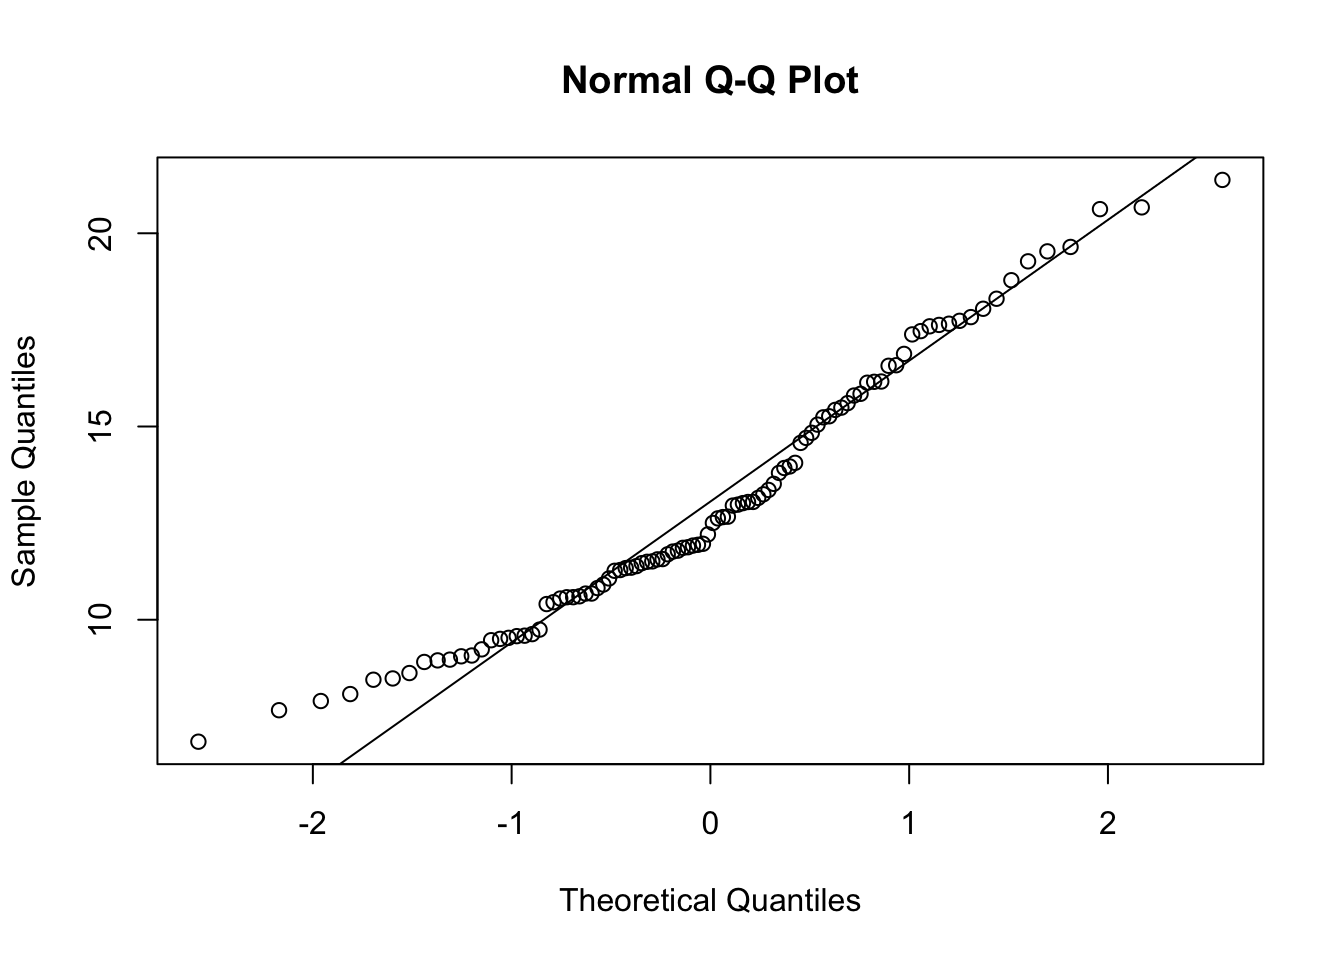
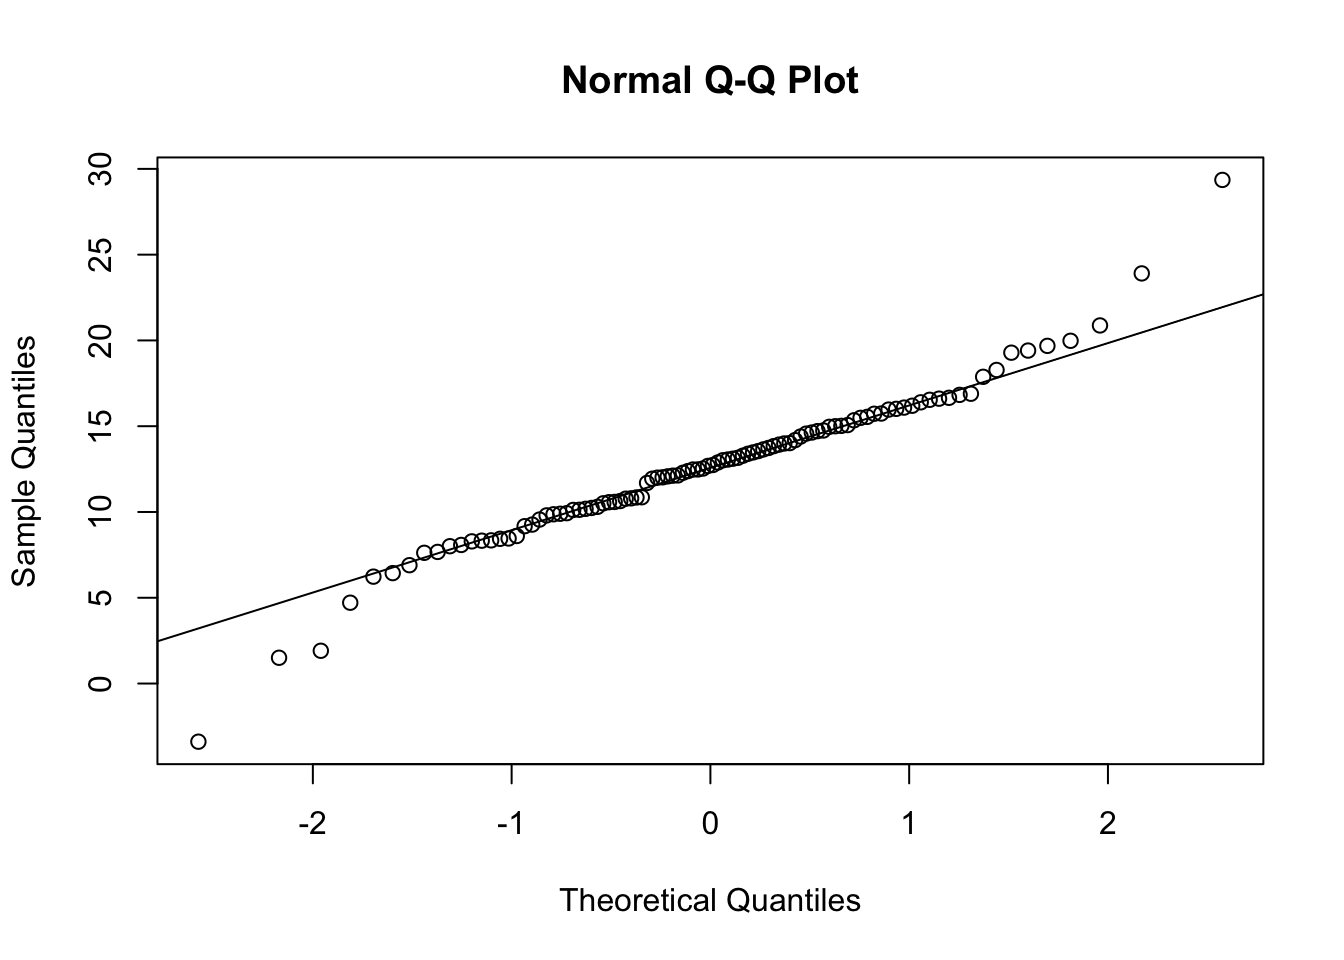
rebuild pages

diff --git a/RLabs/02_R_tutorial_Tabular_data.html b/RLabs/02_R_tutorial_Tabular_data.html
@@ -790,6 +790,16 @@ tidyverse. Before using the functions in these packages, we need to load
 tidyverse. We do this with the <code>library()</code> function. In the
 console, enter this:</p>
 <div class="sourceCode" id="cb1"><pre class="sourceCode r"><code class="sourceCode r"><span id="cb1-1"><a href="#cb1-1" tabindex="-1"></a><span class="fu">library</span>(tidyverse)</span></code></pre></div>
+<pre><code>## ── Attaching core tidyverse packages ──────────────────────── tidyverse 2.0.0 ──
+## ✔ dplyr     1.1.4     ✔ readr     2.1.5
+## ✔ forcats   1.0.0     ✔ stringr   1.5.1
+## ✔ ggplot2   3.5.2     ✔ tibble    3.3.0
+## ✔ lubridate 1.9.4     ✔ tidyr     1.3.1
+## ✔ purrr     1.1.0     
+## ── Conflicts ────────────────────────────────────────── tidyverse_conflicts() ──
+## ✖ dplyr::filter() masks stats::filter()
+## ✖ dplyr::lag()    masks stats::lag()
+## ℹ Use the conflicted package (&lt;http://conflicted.r-lib.org/&gt;) to force all conflicts to become errors</code></pre>
 <p>If the <code>tidyverse</code> was is installed on your computer
 correctly, the computer will show a brief status message and then will
 be ready to go. If the package is not installed, it will give you an
@@ -838,7 +848,7 @@ survived the accident or not.</p>
 <p>To import a CSV file into R, use the <code>read.csv()</code> function
 as in the following command. (This assumes that you have set the working
 directory to <code>ABDLabs</code>, as we described above.)</p>
-<div class="sourceCode" id="cb2"><pre class="sourceCode r"><code class="sourceCode r"><span id="cb2-1"><a href="#cb2-1" tabindex="-1"></a>titanicData <span class="ot">&lt;-</span> <span class="fu">read.csv</span>(<span class="st">&quot;DataForLabs/titanic.csv&quot;</span>, <span class="at">stringsAsFactors =</span> <span class="cn">TRUE</span>)</span></code></pre></div>
+<div class="sourceCode" id="cb3"><pre class="sourceCode r"><code class="sourceCode r"><span id="cb3-1"><a href="#cb3-1" tabindex="-1"></a>titanicData <span class="ot">&lt;-</span> <span class="fu">read.csv</span>(<span class="st">&quot;DataForLabs/titanic.csv&quot;</span>, <span class="at">stringsAsFactors =</span> <span class="cn">TRUE</span>)</span></code></pre></div>
 <p>This looks for the file called <code>titanic.csv</code> in the folder
 called <code>DataForLabs.</code> Here we have given the name
 <code>titanicData</code> to the object in R that contains all this
@@ -869,7 +879,7 @@ tells the computer where to look for the file.</p>
 <code>read.csv()</code> to look for the file outside your current
 working directory. Reading a file from any location can be done with
 <code>read.csv()</code> like this:</p>
-<div class="sourceCode" id="cb3"><pre class="sourceCode r"><code class="sourceCode r"><span id="cb3-1"><a href="#cb3-1" tabindex="-1"></a>titanicData <span class="ot">&lt;-</span> <span class="fu">read.csv</span>(<span class="st">&quot;/Users/whitlock/Desktop/ABDLabs/DataForLabs/titanic.csv&quot;</span>, <span class="at">stringsAsFactors =</span> <span class="cn">TRUE</span>)</span></code></pre></div>
+<div class="sourceCode" id="cb4"><pre class="sourceCode r"><code class="sourceCode r"><span id="cb4-1"><a href="#cb4-1" tabindex="-1"></a>titanicData <span class="ot">&lt;-</span> <span class="fu">read.csv</span>(<span class="st">&quot;/Users/whitlock/Desktop/ABDLabs/DataForLabs/titanic.csv&quot;</span>, <span class="at">stringsAsFactors =</span> <span class="cn">TRUE</span>)</span></code></pre></div>
 <p><br></p>
 </div>
 </div>
@@ -882,30 +892,30 @@ the characteristics of the data, the <code>summary()</code> and
 <h3><code>summary()</code></h3>
 <p>This function will list all the variables and some summary statistics
 for each variable.</p>
-<div class="sourceCode" id="cb4"><pre class="sourceCode r"><code class="sourceCode r"><span id="cb4-1"><a href="#cb4-1" tabindex="-1"></a><span class="fu">summary</span>(titanicData)</span></code></pre></div>
-<pre><code>##  passenger_class                        name           age                 embarked  
-##  1st:322         Carlsson,MrFransOlof     :   2   Min.   : 0.1667              :493  
-##  2nd:280         Connolly,MissKate        :   2   1st Qu.:21.0000   Cherbourg  :202  
-##  3rd:711         Kelly,MrJames            :   2   Median :30.0000   Queenstown : 45  
-##                  Abbing,MrAnthony         :   1   Mean   :31.1942   Southampton:573  
-##                  Abbott,MasterEugeneJoseph:   1   3rd Qu.:41.0000                    
-##                  Abbott,MrRossmoreEdward  :   1   Max.   :71.0000                    
-##                  (Other)                  :1304   NA&#39;s   :680                        
-##           home_destination     sex      survive  
-##                   :558     female:463   no :864  
-##  NewYork,NY       : 65     male  :850   yes:449  
-##  London           : 14                           
-##  Montreal,PQ      : 10                           
-##  Cornwall/Akron,OH:  9                           
-##  Paris,France     :  9                           
-##  (Other)          :648</code></pre>
+<div class="sourceCode" id="cb5"><pre class="sourceCode r"><code class="sourceCode r"><span id="cb5-1"><a href="#cb5-1" tabindex="-1"></a><span class="fu">summary</span>(titanicData)</span></code></pre></div>
+<pre><code>##  passenger_class                        name           age         
+##  1st:322         Carlsson,MrFransOlof     :   2   Min.   : 0.1667  
+##  2nd:280         Connolly,MissKate        :   2   1st Qu.:21.0000  
+##  3rd:711         Kelly,MrJames            :   2   Median :30.0000  
+##                  Abbing,MrAnthony         :   1   Mean   :31.1942  
+##                  Abbott,MasterEugeneJoseph:   1   3rd Qu.:41.0000  
+##                  Abbott,MrRossmoreEdward  :   1   Max.   :71.0000  
+##                  (Other)                  :1304   NA&#39;s   :680      
+##         embarked            home_destination     sex      survive  
+##             :493                    :558     female:463   no :864  
+##  Cherbourg  :202   NewYork,NY       : 65     male  :850   yes:449  
+##  Queenstown : 45   London           : 14                           
+##  Southampton:573   Montreal,PQ      : 10                           
+##                    Cornwall/Akron,OH:  9                           
+##                    Paris,France     :  9                           
+##                    (Other)          :648</code></pre>
 </div>
 <div id="view" class="section level3">
 <h3><code>View()</code></h3>
 <p>The <code>View()</code> function is a nice way to see the data in a
 spreadsheet-like format. To see the data in <code>titanicData</code>
 with <code>View()</code>, run the following command:</p>
-<div class="sourceCode" id="cb6"><pre class="sourceCode r"><code class="sourceCode r"><span id="cb6-1"><a href="#cb6-1" tabindex="-1"></a><span class="fu">View</span>(titanicData)</span></code></pre></div>
+<div class="sourceCode" id="cb7"><pre class="sourceCode r"><code class="sourceCode r"><span id="cb7-1"><a href="#cb7-1" tabindex="-1"></a><span class="fu">View</span>(titanicData)</span></code></pre></div>
 <p><img src="formula_summaries/VIew_function_titanicData.png"
 width="700" /></p>
 <p>Again, note that the <code>titanicData</code> object has 7 columns
@@ -942,7 +952,7 @@ by itself. We write the name of the data set, followed by a
 <code>$</code>, and then the name of the variable.</p>
 <p>For example, to show a list of the age of all the passengers on the
 Titanic, use</p>
-<div class="sourceCode" id="cb7"><pre class="sourceCode r"><code class="sourceCode r"><span id="cb7-1"><a href="#cb7-1" tabindex="-1"></a>titanicData<span class="sc">$</span>age</span></code></pre></div>
+<div class="sourceCode" id="cb8"><pre class="sourceCode r"><code class="sourceCode r"><span id="cb8-1"><a href="#cb8-1" tabindex="-1"></a>titanicData<span class="sc">$</span>age</span></code></pre></div>
 <p>This will show a vector that has all the values for this variable
 age, one for each individual in the data set.</p>
 <p><br></p>
@@ -955,24 +965,24 @@ easiest way to do this is to simply assign a new vector to a new column
 name, using the <code>$</code>.</p>
 <p>For example, to add the log of age as a column in the
 <code>titanicData</code> data frame, we can write</p>
-<div class="sourceCode" id="cb8"><pre class="sourceCode r"><code class="sourceCode r"><span id="cb8-1"><a href="#cb8-1" tabindex="-1"></a>titanicData<span class="sc">$</span>log_age <span class="ot">&lt;-</span> <span class="fu">log</span>(titanicData<span class="sc">$</span>age)</span></code></pre></div>
+<div class="sourceCode" id="cb9"><pre class="sourceCode r"><code class="sourceCode r"><span id="cb9-1"><a href="#cb9-1" tabindex="-1"></a>titanicData<span class="sc">$</span>log_age <span class="ot">&lt;-</span> <span class="fu">log</span>(titanicData<span class="sc">$</span>age)</span></code></pre></div>
 <p>You can run the command <code>head(titanicData)</code> to see that
 <code>log_age</code> is now a column in <code>titanicData</code>.</p>
-<div class="sourceCode" id="cb9"><pre class="sourceCode r"><code class="sourceCode r"><span id="cb9-1"><a href="#cb9-1" tabindex="-1"></a><span class="fu">head</span>(titanicData)</span></code></pre></div>
-<pre><code>##   passenger_class                                      name     age    embarked            home_destination
-## 1             1st                 Allen,MissElisabethWalton 29.0000 Southampton                  StLouis,MO
-## 2             1st                  Allison,MissHelenLoraine  2.0000 Southampton Montreal,PQ/Chesterville,ON
-## 3             1st           Allison,MrHudsonJoshuaCreighton 30.0000 Southampton Montreal,PQ/Chesterville,ON
-## 4             1st Allison,MrsHudsonJ.C.(BessieWaldoDaniels) 25.0000 Southampton Montreal,PQ/Chesterville,ON
-## 5             1st                Allison,MasterHudsonTrevor  0.9167 Southampton Montreal,PQ/Chesterville,ON
-## 6             1st                          Anderson,MrHarry 47.0000 Southampton                  NewYork,NY
-##      sex survive     log_age
-## 1 female     yes  3.36729583
-## 2 female      no  0.69314718
-## 3   male      no  3.40119738
-## 4 female      no  3.21887582
-## 5   male     yes -0.08697501
-## 6   male     yes  3.85014760</code></pre>
+<div class="sourceCode" id="cb10"><pre class="sourceCode r"><code class="sourceCode r"><span id="cb10-1"><a href="#cb10-1" tabindex="-1"></a><span class="fu">head</span>(titanicData)</span></code></pre></div>
+<pre><code>##   passenger_class                                      name     age    embarked
+## 1             1st                 Allen,MissElisabethWalton 29.0000 Southampton
+## 2             1st                  Allison,MissHelenLoraine  2.0000 Southampton
+## 3             1st           Allison,MrHudsonJoshuaCreighton 30.0000 Southampton
+## 4             1st Allison,MrsHudsonJ.C.(BessieWaldoDaniels) 25.0000 Southampton
+## 5             1st                Allison,MasterHudsonTrevor  0.9167 Southampton
+## 6             1st                          Anderson,MrHarry 47.0000 Southampton
+##              home_destination    sex survive     log_age
+## 1                  StLouis,MO female     yes  3.36729583
+## 2 Montreal,PQ/Chesterville,ON female      no  0.69314718
+## 3 Montreal,PQ/Chesterville,ON   male      no  3.40119738
+## 4 Montreal,PQ/Chesterville,ON female      no  3.21887582
+## 5 Montreal,PQ/Chesterville,ON   male     yes -0.08697501
+## 6                  NewYork,NY   male     yes  3.85014760</code></pre>
 <p>The <code>head()</code> function shows the first 6 rows of a data
 frame or tibble, which is a handy way to check that you understand the
 structure of the data and/or that you have added the new column
@@ -995,7 +1005,7 @@ functions in the tidyverse packages, including
 and an individual is female if that variable has value
 <code>female</code>. We can create a new data frame that includes only
 the data from females with the following command:</p>
-<div class="sourceCode" id="cb11"><pre class="sourceCode r"><code class="sourceCode r"><span id="cb11-1"><a href="#cb11-1" tabindex="-1"></a>titanicDataFemalesOnly <span class="ot">&lt;-</span> <span class="fu">filter</span>(titanicData, sex <span class="sc">==</span> <span class="st">&quot;female&quot;</span>)</span></code></pre></div>
+<div class="sourceCode" id="cb12"><pre class="sourceCode r"><code class="sourceCode r"><span id="cb12-1"><a href="#cb12-1" tabindex="-1"></a>titanicDataFemalesOnly <span class="ot">&lt;-</span> <span class="fu">filter</span>(titanicData, sex <span class="sc">==</span> <span class="st">&quot;female&quot;</span>)</span></code></pre></div>
 <p>This new data frame will include all the same columns as the original
 <code>titanicData</code>, but it will only include the rows for which
 the sex was <code>female</code>.</p>

diff --git a/RLabs/R_tutorial_Comparing_means_of_2_groups.html b/RLabs/R_tutorial_Comparing_means_of_2_groups.html
@@ -616,19 +616,10 @@ href="R_tutorial_Intro_to_R_2.html#expanding_r%E2%80%99s_capabilities">install
 the package</a>.)</p>
 <div class="sourceCode" id="cb2"><pre class="sourceCode r"><code class="sourceCode r"><span id="cb2-1"><a href="#cb2-1" tabindex="-1"></a><span class="fu">library</span>(ggplot2)</span>
 <span id="cb2-2"><a href="#cb2-2" tabindex="-1"></a><span class="fu">library</span>(car)</span></code></pre></div>
-<pre><code>## Loading required package: carData</code></pre>
-<pre><code>## 
-## Attaching package: &#39;car&#39;</code></pre>
-<pre><code>## The following object is masked from &#39;package:dplyr&#39;:
-## 
-##     recode</code></pre>
-<pre><code>## The following object is masked from &#39;package:purrr&#39;:
-## 
-##     some</code></pre>
 <p><br></p>
 <p>We’ll use the Titanic data set again this week for our examples, so
 load those data to R.</p>
-<div class="sourceCode" id="cb7"><pre class="sourceCode r"><code class="sourceCode r"><span id="cb7-1"><a href="#cb7-1" tabindex="-1"></a>titanicData <span class="ot">&lt;-</span> <span class="fu">read.csv</span>(<span class="st">&quot;DataForLabs/titanic.csv&quot;</span>,<span class="at">stringsAsFactors =</span> <span class="cn">TRUE</span>)</span></code></pre></div>
+<div class="sourceCode" id="cb3"><pre class="sourceCode r"><code class="sourceCode r"><span id="cb3-1"><a href="#cb3-1" tabindex="-1"></a>titanicData <span class="ot">&lt;-</span> <span class="fu">read.csv</span>(<span class="st">&quot;DataForLabs/titanic.csv&quot;</span>,<span class="at">stringsAsFactors =</span> <span class="cn">TRUE</span>)</span></code></pre></div>
 <p><br></p>
 <div id="strip-charts" class="section level2">
 <h2>Strip charts</h2>
@@ -649,7 +640,7 @@ we specify <strong>x = survive</strong> to indicate the categorical
 variable. If we want more or less jitter, we could use a larger or
 smaller value than 0.05 in the option
 <strong>position_jitter(0.05)</strong>.</p>
-<div class="sourceCode" id="cb8"><pre class="sourceCode r"><code class="sourceCode r"><span id="cb8-1"><a href="#cb8-1" tabindex="-1"></a><span class="fu">ggplot</span>(titanicData, <span class="fu">aes</span>(<span class="at">x =</span> survive, <span class="at">y =</span> age)) <span class="sc">+</span> <span class="fu">geom_jitter</span>(<span class="at">position =</span> <span class="fu">position_jitter</span>(<span class="fl">0.05</span>)) <span class="sc">+</span> <span class="fu">theme_minimal</span>()</span></code></pre></div>
+<div class="sourceCode" id="cb4"><pre class="sourceCode r"><code class="sourceCode r"><span id="cb4-1"><a href="#cb4-1" tabindex="-1"></a><span class="fu">ggplot</span>(titanicData, <span class="fu">aes</span>(<span class="at">x =</span> survive, <span class="at">y =</span> age)) <span class="sc">+</span> <span class="fu">geom_jitter</span>(<span class="at">position =</span> <span class="fu">position_jitter</span>(<span class="fl">0.05</span>)) <span class="sc">+</span> <span class="fu">theme_minimal</span>()</span></code></pre></div>
 <p><img src="R_tutorial_Comparing_means_of_2_groups_files/figure-html/unnamed-chunk-4-1.png" width="672" /></p>
 <p>One can see from this strip chart that there is a weak tendency for
 survivors to be younger on average than non-survivors. Younger people
@@ -667,9 +658,9 @@ variable in the different groups, and it helps to assess whether the
 assumptions of relevant statistical methods are met.</p>
 <p>Plotting <strong>age</strong> again as a function of
 <strong>survive</strong>, we can write:</p>
-<div class="sourceCode" id="cb9"><pre class="sourceCode r"><code class="sourceCode r"><span id="cb9-1"><a href="#cb9-1" tabindex="-1"></a><span class="fu">ggplot</span>(titanicData, <span class="fu">aes</span>(<span class="at">x =</span> age)) <span class="sc">+</span>   </span>
-<span id="cb9-2"><a href="#cb9-2" tabindex="-1"></a>    <span class="fu">geom_histogram</span>() <span class="sc">+</span> </span>
-<span id="cb9-3"><a href="#cb9-3" tabindex="-1"></a>    <span class="fu">facet_wrap</span>(<span class="sc">~</span> survive, <span class="at">ncol =</span> <span class="dv">1</span>)</span></code></pre></div>
+<div class="sourceCode" id="cb5"><pre class="sourceCode r"><code class="sourceCode r"><span id="cb5-1"><a href="#cb5-1" tabindex="-1"></a><span class="fu">ggplot</span>(titanicData, <span class="fu">aes</span>(<span class="at">x =</span> age)) <span class="sc">+</span>   </span>
+<span id="cb5-2"><a href="#cb5-2" tabindex="-1"></a>    <span class="fu">geom_histogram</span>() <span class="sc">+</span> </span>
+<span id="cb5-3"><a href="#cb5-3" tabindex="-1"></a>    <span class="fu">facet_wrap</span>(<span class="sc">~</span> survive, <span class="at">ncol =</span> <span class="dv">1</span>)</span></code></pre></div>
 <pre><code>## `stat_bin()` using `bins = 30`. Pick better value with `binwidth`.</code></pre>
 <pre><code>## Warning: Removed 680 rows containing non-finite outside the scale range (`stat_bin()`).</code></pre>
 <p><img src="R_tutorial_Comparing_means_of_2_groups_files/figure-html/unnamed-chunk-5-1.png" width="672" /></p>
@@ -693,13 +684,13 @@ survived.</p>
 variable and a numerical variable is a violin plot.</p>
 <p>A violin plot can be made in R using <strong>ggplot</strong>, using
 the geom function <strong>geom_violin()</strong>.</p>
-<div class="sourceCode" id="cb12"><pre class="sourceCode r"><code class="sourceCode r"><span id="cb12-1"><a href="#cb12-1" tabindex="-1"></a><span class="fu">ggplot</span>(titanicData, <span class="fu">aes</span>(<span class="at">x=</span>survive, <span class="at">y=</span>age, <span class="at">fill =</span> survive)) <span class="sc">+</span> </span>
-<span id="cb12-2"><a href="#cb12-2" tabindex="-1"></a>  <span class="fu">geom_violin</span>() <span class="sc">+</span></span>
-<span id="cb12-3"><a href="#cb12-3" tabindex="-1"></a>  <span class="fu">xlab</span>(<span class="st">&quot;Survival&quot;</span>) <span class="sc">+</span> <span class="fu">ylab</span>(<span class="st">&quot;Age&quot;</span>) <span class="sc">+</span> </span>
-<span id="cb12-4"><a href="#cb12-4" tabindex="-1"></a>  <span class="fu">theme_classic</span>()<span class="sc">+</span><span class="fu">scale_fill_manual</span>(<span class="at">values=</span><span class="fu">c</span>(<span class="st">&quot;#FFB531&quot;</span>,<span class="st">&quot;#BC211A&quot;</span>))<span class="sc">+</span> </span>
-<span id="cb12-5"><a href="#cb12-5" tabindex="-1"></a>  <span class="fu">stat_summary</span>(<span class="at">fun.y=</span>mean,  <span class="at">geom=</span><span class="st">&quot;point&quot;</span>, <span class="at">color=</span><span class="st">&quot;black&quot;</span>)<span class="sc">+</span> </span>
-<span id="cb12-6"><a href="#cb12-6" tabindex="-1"></a>  <span class="fu">theme</span>(<span class="at">legend.position=</span><span class="st">&quot;none&quot;</span>)<span class="sc">+</span> </span>
-<span id="cb12-7"><a href="#cb12-7" tabindex="-1"></a>  <span class="fu">theme</span>(<span class="at">aspect.ratio=</span><span class="dv">1</span>)</span></code></pre></div>
+<div class="sourceCode" id="cb8"><pre class="sourceCode r"><code class="sourceCode r"><span id="cb8-1"><a href="#cb8-1" tabindex="-1"></a><span class="fu">ggplot</span>(titanicData, <span class="fu">aes</span>(<span class="at">x=</span>survive, <span class="at">y=</span>age, <span class="at">fill =</span> survive)) <span class="sc">+</span> </span>
+<span id="cb8-2"><a href="#cb8-2" tabindex="-1"></a>  <span class="fu">geom_violin</span>() <span class="sc">+</span></span>
+<span id="cb8-3"><a href="#cb8-3" tabindex="-1"></a>  <span class="fu">xlab</span>(<span class="st">&quot;Survival&quot;</span>) <span class="sc">+</span> <span class="fu">ylab</span>(<span class="st">&quot;Age&quot;</span>) <span class="sc">+</span> </span>
+<span id="cb8-4"><a href="#cb8-4" tabindex="-1"></a>  <span class="fu">theme_classic</span>()<span class="sc">+</span><span class="fu">scale_fill_manual</span>(<span class="at">values=</span><span class="fu">c</span>(<span class="st">&quot;#FFB531&quot;</span>,<span class="st">&quot;#BC211A&quot;</span>))<span class="sc">+</span> </span>
+<span id="cb8-5"><a href="#cb8-5" tabindex="-1"></a>  <span class="fu">stat_summary</span>(<span class="at">fun.y=</span>mean,  <span class="at">geom=</span><span class="st">&quot;point&quot;</span>, <span class="at">color=</span><span class="st">&quot;black&quot;</span>)<span class="sc">+</span> </span>
+<span id="cb8-6"><a href="#cb8-6" tabindex="-1"></a>  <span class="fu">theme</span>(<span class="at">legend.position=</span><span class="st">&quot;none&quot;</span>)<span class="sc">+</span> </span>
+<span id="cb8-7"><a href="#cb8-7" tabindex="-1"></a>  <span class="fu">theme</span>(<span class="at">aspect.ratio=</span><span class="dv">1</span>)</span></code></pre></div>
 <p><img src="R_tutorial_Comparing_means_of_2_groups_files/figure-html/unnamed-chunk-6-1.png" width="672" /></p>
 <p>This version has some extra options thrown in. What is important here
 is that it uses <strong>geom_violin()</strong> to specify that a violin
@@ -747,7 +738,7 @@ which allows for unequal variances.)</p>
 To tell R to assume that the variances are equal, we use the option
 “<strong>var.equal = TRUE</strong>”.</p>
 <p>Here is the complete command for this example and the output:</p>
-<div class="sourceCode" id="cb13"><pre class="sourceCode r"><code class="sourceCode r"><span id="cb13-1"><a href="#cb13-1" tabindex="-1"></a><span class="fu">t.test</span>(age <span class="sc">~</span> survive, <span class="at">data =</span> titanicData, <span class="at">var.equal =</span> <span class="cn">TRUE</span>)</span></code></pre></div>
+<div class="sourceCode" id="cb9"><pre class="sourceCode r"><code class="sourceCode r"><span id="cb9-1"><a href="#cb9-1" tabindex="-1"></a><span class="fu">t.test</span>(age <span class="sc">~</span> survive, <span class="at">data =</span> titanicData, <span class="at">var.equal =</span> <span class="cn">TRUE</span>)</span></code></pre></div>
 <pre><code>## 
 ##  Two Sample t-test
 ## 
@@ -790,7 +781,7 @@ variable has a normal distribution in both populations.)</p>
 function <strong>t.test()</strong>. The command is exactly like that for
 the 2-sample <em>t</em>-test that we did above, but with the option
 <strong>var.equal</strong> set to <strong>FALSE</strong>.</p>
-<div class="sourceCode" id="cb15"><pre class="sourceCode r"><code class="sourceCode r"><span id="cb15-1"><a href="#cb15-1" tabindex="-1"></a><span class="fu">t.test</span>(age <span class="sc">~</span> survive, <span class="at">data =</span> titanicData, <span class="at">var.equal =</span> <span class="cn">FALSE</span>)</span></code></pre></div>
+<div class="sourceCode" id="cb11"><pre class="sourceCode r"><code class="sourceCode r"><span id="cb11-1"><a href="#cb11-1" tabindex="-1"></a><span class="fu">t.test</span>(age <span class="sc">~</span> survive, <span class="at">data =</span> titanicData, <span class="at">var.equal =</span> <span class="cn">FALSE</span>)</span></code></pre></div>
 <pre><code>## 
 ##  Welch Two Sample t-test
 ## 
@@ -824,7 +815,7 @@ other group.</p>
 <p>The Titanic data set does not include any paired data, so we will use
 Example 12.2 from Whitlock and Schluter to show how this function works
 in R. Load the data with <strong>read.csv()</strong>.</p>
-<div class="sourceCode" id="cb17"><pre class="sourceCode r"><code class="sourceCode r"><span id="cb17-1"><a href="#cb17-1" tabindex="-1"></a>blackbird <span class="ot">&lt;-</span> <span class="fu">read.csv</span>(<span class="st">&quot;DataForLabs/chap12e2BlackbirdTestosterone.csv&quot;</span>, <span class="at">stringsAsFactors =</span> <span class="cn">TRUE</span>)</span></code></pre></div>
+<div class="sourceCode" id="cb13"><pre class="sourceCode r"><code class="sourceCode r"><span id="cb13-1"><a href="#cb13-1" tabindex="-1"></a>blackbird <span class="ot">&lt;-</span> <span class="fu">read.csv</span>(<span class="st">&quot;DataForLabs/chap12e2BlackbirdTestosterone.csv&quot;</span>, <span class="at">stringsAsFactors =</span> <span class="cn">TRUE</span>)</span></code></pre></div>
 <p>These data show the log antibody production of male blackbirds before
 (<strong>logBeforeImplant</strong>) and after
 (<strong>logAfterImplant</strong>) the birds received a testosterone
@@ -834,7 +825,7 @@ are paired.</p>
 <strong>t.test()</strong> by specifying the option <strong>paired =
 TRUE</strong>. We also need to give the names of the two columns that
 have the data from the two conditions.</p>
-<div class="sourceCode" id="cb18"><pre class="sourceCode r"><code class="sourceCode r"><span id="cb18-1"><a href="#cb18-1" tabindex="-1"></a><span class="fu">t.test</span>(blackbird<span class="sc">$</span>logAfterImplant, blackbird<span class="sc">$</span>logBeforeImplant, <span class="at">paired =</span> <span class="cn">TRUE</span>)</span></code></pre></div>
+<div class="sourceCode" id="cb14"><pre class="sourceCode r"><code class="sourceCode r"><span id="cb14-1"><a href="#cb14-1" tabindex="-1"></a><span class="fu">t.test</span>(blackbird<span class="sc">$</span>logAfterImplant, blackbird<span class="sc">$</span>logBeforeImplant, <span class="at">paired =</span> <span class="cn">TRUE</span>)</span></code></pre></div>
 <pre><code>## 
 ##  Paired t-test
 ## 
@@ -868,7 +859,7 @@ of R does not do Levene’s test, but it is available from the package
 <p>As with other packages you would need to install the package car
 first (see Lab 2 for instructions), and then use library to load its
 functions into R.</p>
-<div class="sourceCode" id="cb20"><pre class="sourceCode r"><code class="sourceCode r"><span id="cb20-1"><a href="#cb20-1" tabindex="-1"></a><span class="fu">library</span>(car)</span></code></pre></div>
+<div class="sourceCode" id="cb16"><pre class="sourceCode r"><code class="sourceCode r"><span id="cb16-1"><a href="#cb16-1" tabindex="-1"></a><span class="fu">library</span>(car)</span></code></pre></div>
 <p>To use <strong>leveneTest()</strong>, you need three arguments for
 the input.</p>
 <p><strong>data</strong>: the data frame that contains the data</p>
@@ -878,7 +869,7 @@ variable and the explanatory variables</p>
 For the standard Levene’s test, use <strong>center = mean</strong></p>
 <p>Let’s demonstrate this with the Titanic data, with age as the
 numerical variable and survive as the group variable.</p>
-<div class="sourceCode" id="cb21"><pre class="sourceCode r"><code class="sourceCode r"><span id="cb21-1"><a href="#cb21-1" tabindex="-1"></a><span class="fu">leveneTest</span>(<span class="at">data =</span> titanicData, age <span class="sc">~</span> survive, <span class="at">center =</span> mean)</span></code></pre></div>
+<div class="sourceCode" id="cb17"><pre class="sourceCode r"><code class="sourceCode r"><span id="cb17-1"><a href="#cb17-1" tabindex="-1"></a><span class="fu">leveneTest</span>(<span class="at">data =</span> titanicData, age <span class="sc">~</span> survive, <span class="at">center =</span> mean)</span></code></pre></div>
 <pre><code>## Levene&#39;s Test for Homogeneity of Variance (center = mean)
 ##        Df F value  Pr(&gt;F)  
 ## group   1   3.906 0.04855 *

diff --git a/RLabs/R_tutorial_Frequency_data.html b/RLabs/R_tutorial_Frequency_data.html
@@ -914,8 +914,8 @@ don’t yet want the full results of the test because R does not know to
 correct for the reduction in degrees of freedom caused by estimating the
 mean.)</p>
 <div class="sourceCode" id="cb30"><pre class="sourceCode r"><code class="sourceCode r"><span id="cb30-1"><a href="#cb30-1" tabindex="-1"></a><span class="fu">chisq.test</span>(observed_combined, <span class="at">p =</span> expected_combined, <span class="at">rescale.p =</span> <span class="cn">TRUE</span>)<span class="sc">$</span>statistic</span></code></pre></div>
-<pre><code>## Warning in chisq.test(observed_combined, p = expected_combined, rescale.p = TRUE): Chi-squared
-## approximation may be incorrect</code></pre>
+<pre><code>## Warning in chisq.test(observed_combined, p = expected_combined, rescale.p = TRUE): Chi-squared approximation
+## may be incorrect</code></pre>
 <pre><code>## X-squared 
 ##  23.93919</code></pre>
 <p>This correctly calculates our <span

diff --git a/RLabs/R_tutorial_Normal_and_sample_means.html b/RLabs/R_tutorial_Normal_and_sample_means.html
@@ -684,8 +684,8 @@ distribution</p>
 numbers drawn from a normal distribution with mean 13 and standard
 deviation 4:</p>
 <div class="sourceCode" id="cb6"><pre class="sourceCode r"><code class="sourceCode r"><span id="cb6-1"><a href="#cb6-1" tabindex="-1"></a><span class="fu">rnorm</span>(<span class="at">n =</span> <span class="dv">20</span>, <span class="at">mean =</span> <span class="dv">13</span>, <span class="at">sd =</span> <span class="dv">4</span>)</span></code></pre></div>
-<pre><code>##  [1] 14.253880 13.344116 16.481849  8.193801 12.191038 10.109857 16.587669 12.809473 17.560870 10.619796
-## [11] 15.073345 20.317576 15.171287 15.005530 12.696219 11.147794 20.601524 16.845297 17.099350 11.732348</code></pre>
+<pre><code>##  [1] 15.069868 15.709834  5.205122 17.342268 12.031558 18.926071 12.634741 12.578918  9.356955 13.591530
+## [11] 14.714557 11.570335 11.588282 15.089399 11.518081 14.446039 11.931864  9.408842 19.402135 14.019974</code></pre>
 <p>Let’s look at a QQ plot generated from 100 numbers randomly drawn
 from a normal distribution:</p>
 <div class="sourceCode" id="cb8"><pre class="sourceCode r"><code class="sourceCode r"><span id="cb8-1"><a href="#cb8-1" tabindex="-1"></a>normal_vector <span class="ot">&lt;-</span> <span class="fu">rnorm</span>(<span class="at">n =</span> <span class="dv">100</span>, <span class="at">mean =</span> <span class="dv">13</span>, <span class="at">sd =</span> <span class="dv">4</span>)</span>

diff --git a/RLabs/R_tutorial_Sampling.html b/RLabs/R_tutorial_Sampling.html
@@ -674,7 +674,7 @@ randomly chooses integers from a given range. To randomly sample 5
 individuals from 25 possibilities, we can use:</li>
 </ol>
 <div class="sourceCode" id="cb1"><pre class="sourceCode r"><code class="sourceCode r"><span id="cb1-1"><a href="#cb1-1" tabindex="-1"></a><span class="fu">sample.int</span>(<span class="at">n =</span> <span class="dv">25</span>, <span class="at">size =</span> <span class="dv">5</span>)</span></code></pre></div>
-<pre><code>## [1] 23  2  9 25 16</code></pre>
+<pre><code>## [1]  7 15 11  8 18</code></pre>
 <p>This tells R to give us a set of 5 numbers randomly chosen from the
 integers 1 to 25. (When you run this line you will almost certainly get
 a different output. It is randomly choosing numbers, so we expect